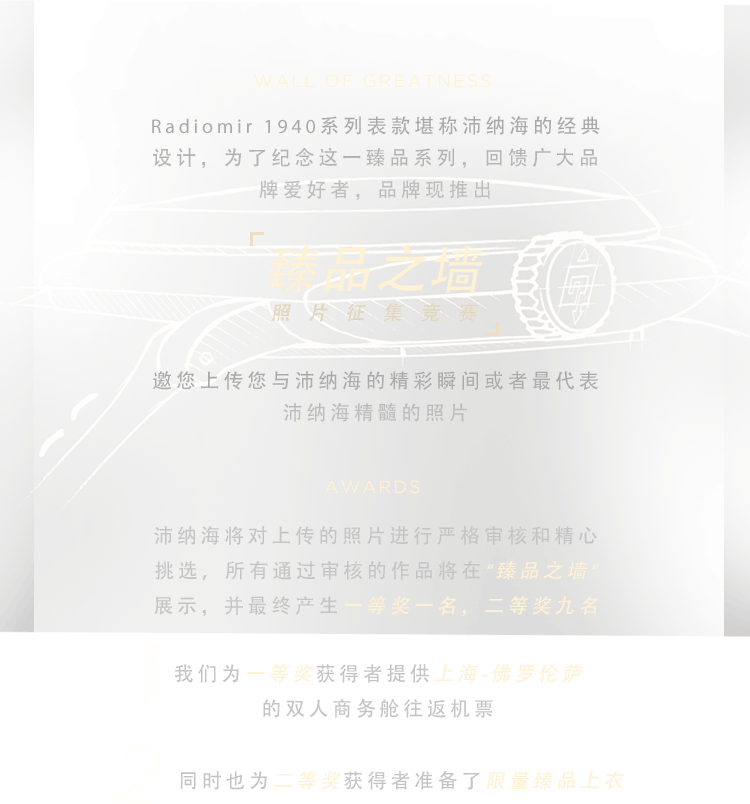
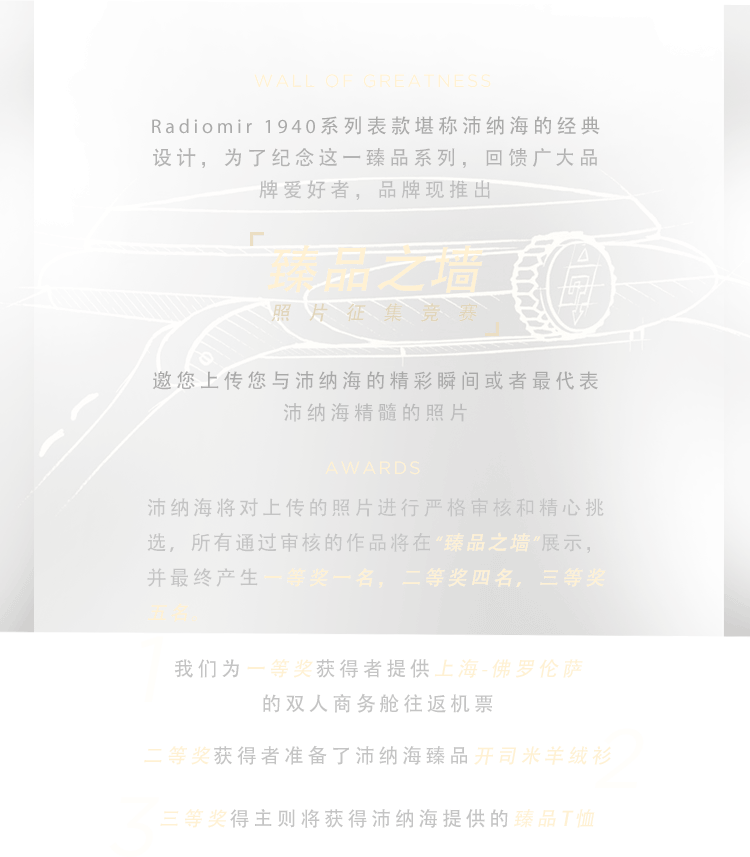
no message

diff --git a/rule.html b/rule.html
@@ -179,8 +179,8 @@
         <ul class="rule_con">
             <li>
                 针对此竞赛，主办方设置以下奖项鼓励客人参与活动：<br />
-                • 本次活动将评比产生一等奖一名，二等奖九名。<br />
-                • 一等奖可获得沛纳海提供的往返意大利的双人机票，机票具体规格为上海-佛罗伦萨-上海，商务舱。二等奖中的第2至第5名将获得沛纳海臻品开司米羊绒衫，第6至第10名将获得沛纳海臻品T恤。<br />
+                • 本次活动将评比产生一等奖一名，二等奖四名，三等奖五名。<br />
+                • 一等奖可获得沛纳海提供的往返意大利的双人机票，机票具体规格为上海-佛罗伦萨-上海，商务舱。二等奖得主将获得沛纳海臻品开司米羊绒衫，三等奖得主将获得沛纳海臻品T恤。<br />
                 • 限获奖者自领取奖项后一年内完成该次旅行，过期无效。
             </li>
             <li>
